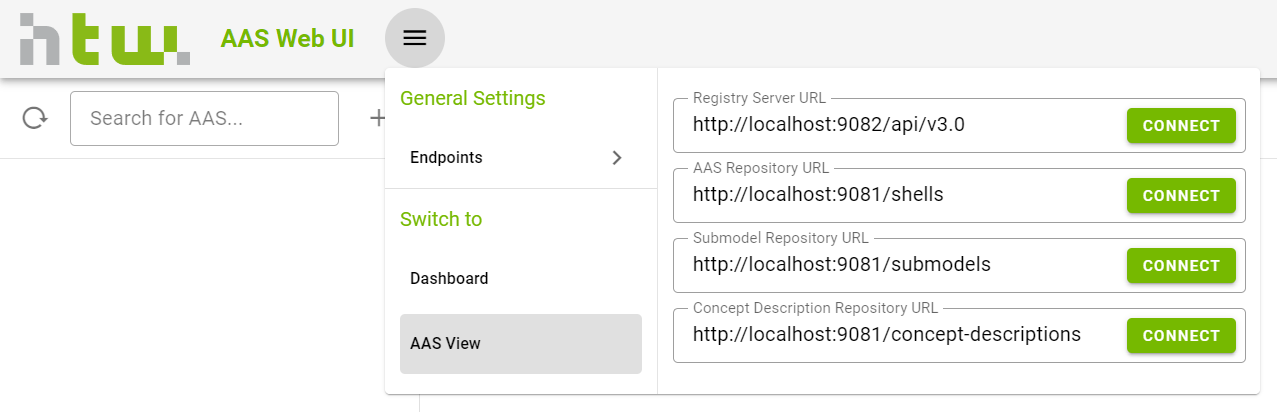
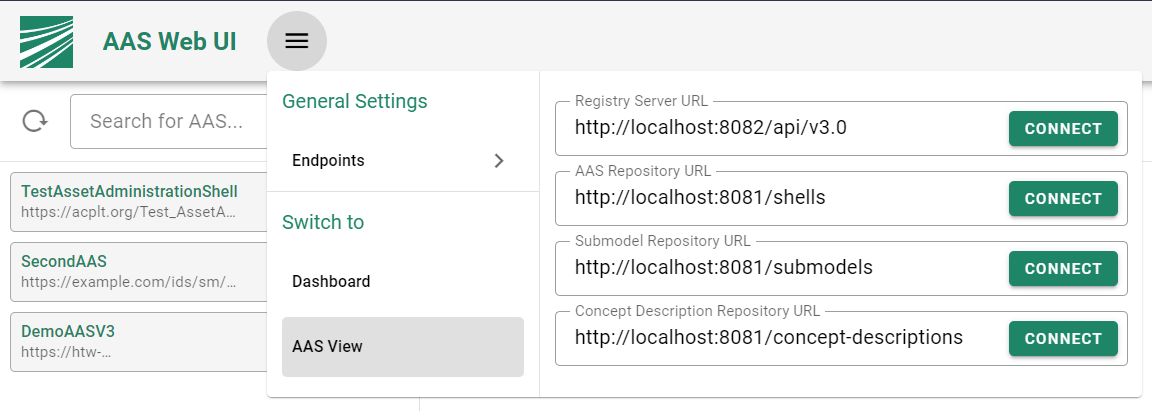
Added text for ui elements

diff --git a/docs/source/content/user_documentation/basyx_components/web_ui/index.md b/docs/source/content/user_documentation/basyx_components/web_ui/index.md
@@ -2,7 +2,7 @@
 
 The AAS Web UI is a vue.js 3 based web application and can be used to visualize and interact with Asset Administration Shells. It is intended to work in conjunction with the BaSyx Registry and the BaSyx AAS Environment.
 
-```{figure} ./images/1800px-AAS_Web_UI.png
+```{figure} ./images/aas_web_ui.png
 ---
 width: 100%
 alt: AAS Web UI
@@ -56,6 +56,63 @@ name: connect_basyx
 You can find a complete example on how to setup a BaSyx environment with the AAS Web UI, Registry and AAS Environment in the [Quick Start](../../../introduction/quickstart) section.
 
 ## Interacting with AAS
+
+### AAS List Sidebar
+
+````{sidebar}
+![](./images/ui_sidebar.png)
+````
+
+The AAS List shows all Asset Administration Shells that are registered. The list can be filtered by entering a search term in the search bar.
+
+There is also an option to show an information window for each Asset Administration Shell by clicking on the info icon. The information window shows the AAS ID, the AAS Name, the AAS Description and information regarding the asset like the global asset ID and a thumbnail.
+
+In addition, the AAS can be removed from the registry by clicking on the **delete/close** icon. Clicking the **download** icon will download the AAS as an AASX file.
+
+### AAS Treeview
+
+````{sidebar}
+![](./images/ui_treeview.png)
+````
+
+The AAS Treeview shows the Asset Administration Shell in a tree structure. The tree can be expanded by clicking on the expand icon on the left side of each Submodel/SubmodelElementCollection. Clicking directly on a Submodel/SubmodelElement will show the Submodel/SubmodelElement in the Element Details Page further to the right.
+
+If a SubmodelElement is selected you are able to copy its path to the clipboard by clicking on the **copy** icon on the right side of the SubmodelElement.
+
+### Element Details
+
+````{sidebar}
+![](./images/element_details.png)
+````
+
+The Element Details Page shows the content of the selected SubmodelElement. This includes the following information:
+
+- idShort
+- modelType
+- semanticId
+- description
+- value
+- dataSpecificationContent (fetched from the Concept Description Repository)
+
+```{note}
+:class: margin
+The Capability and Event SubmodelElement types are not yet implemented.
+```
+
+The implemented SubmodelElements follow the specification for the AAS in Metamodel Version 3. Currently, the following SubmodelElements have their own visualization:
+
+- SubmodelElementCollection
+- SubmodelElementList
+- Property
+- MultiLanguageProperty
+- File
+- Blob
+- Operation
+- ReferenceElement
+- Range
+- Entity
+- RelationshipElement
+- AnnotatedRelationshipElement
 
 ## Features
 
